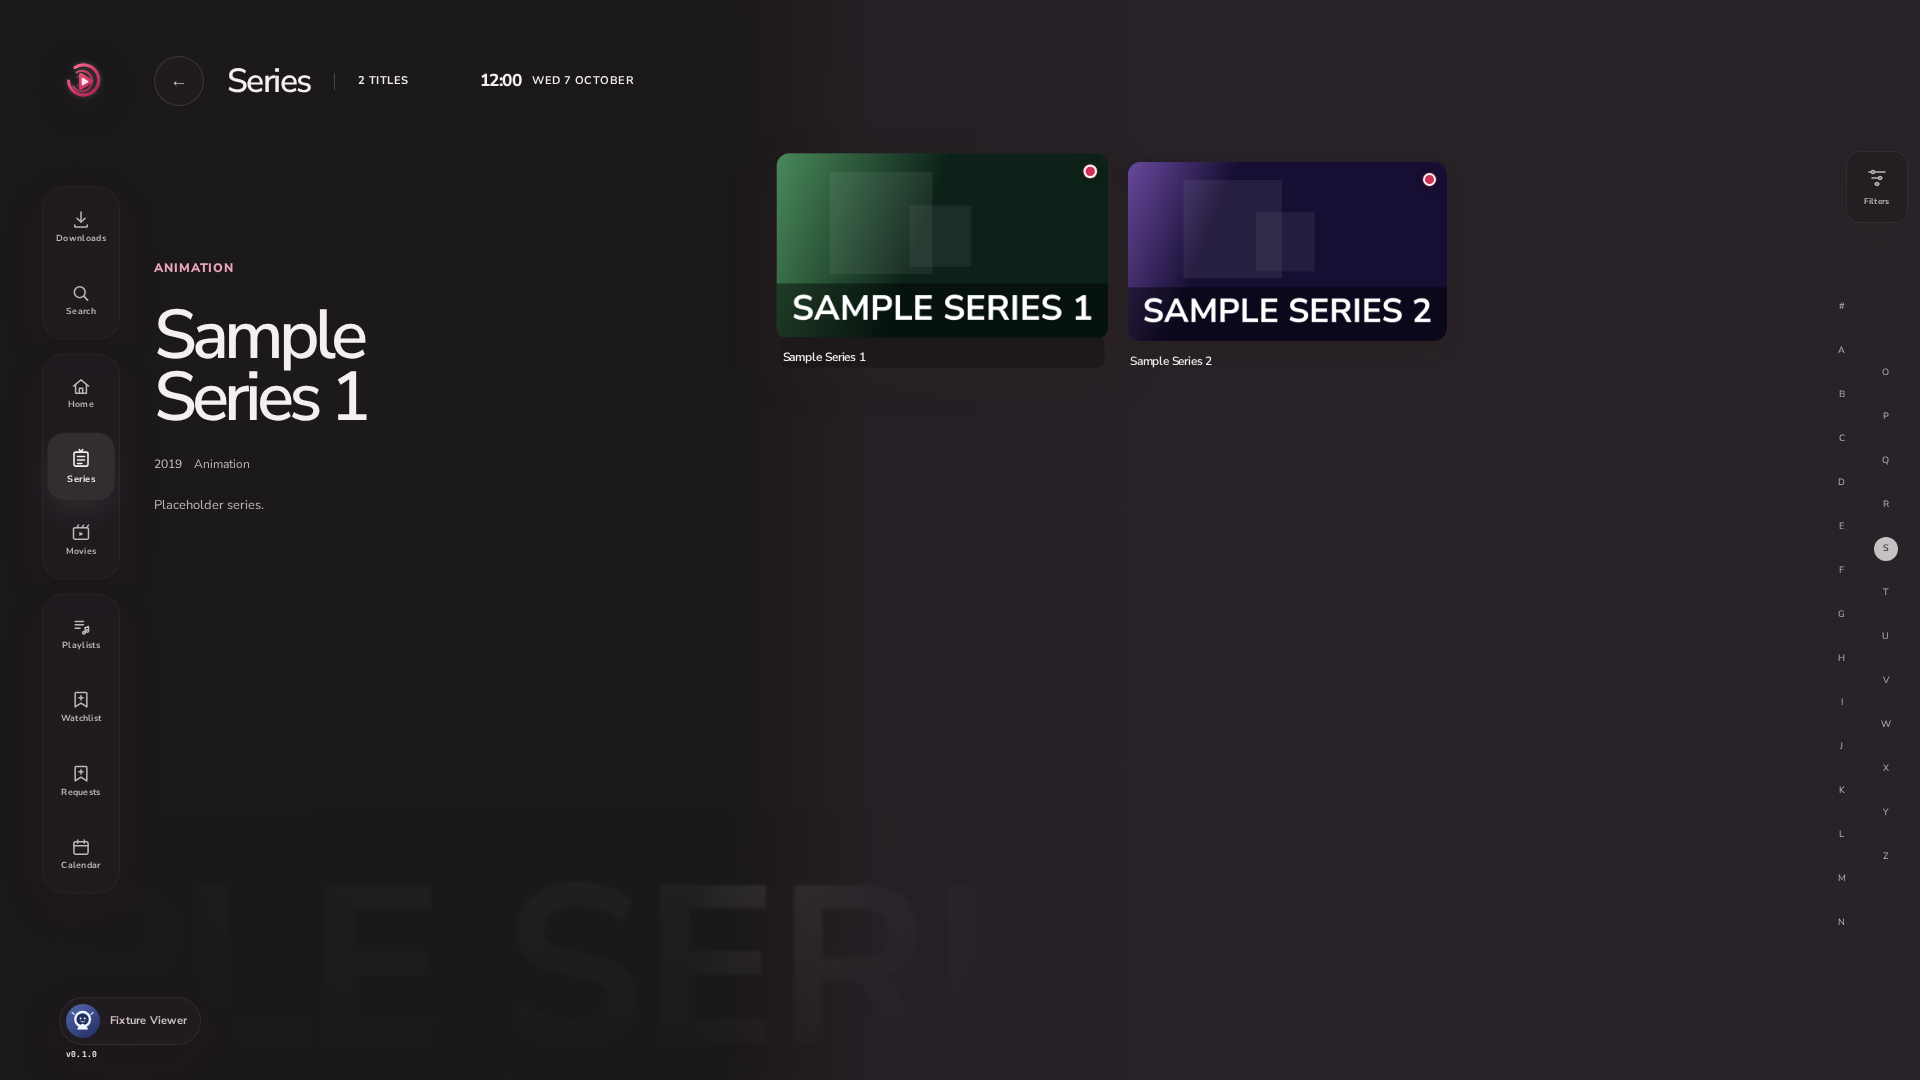
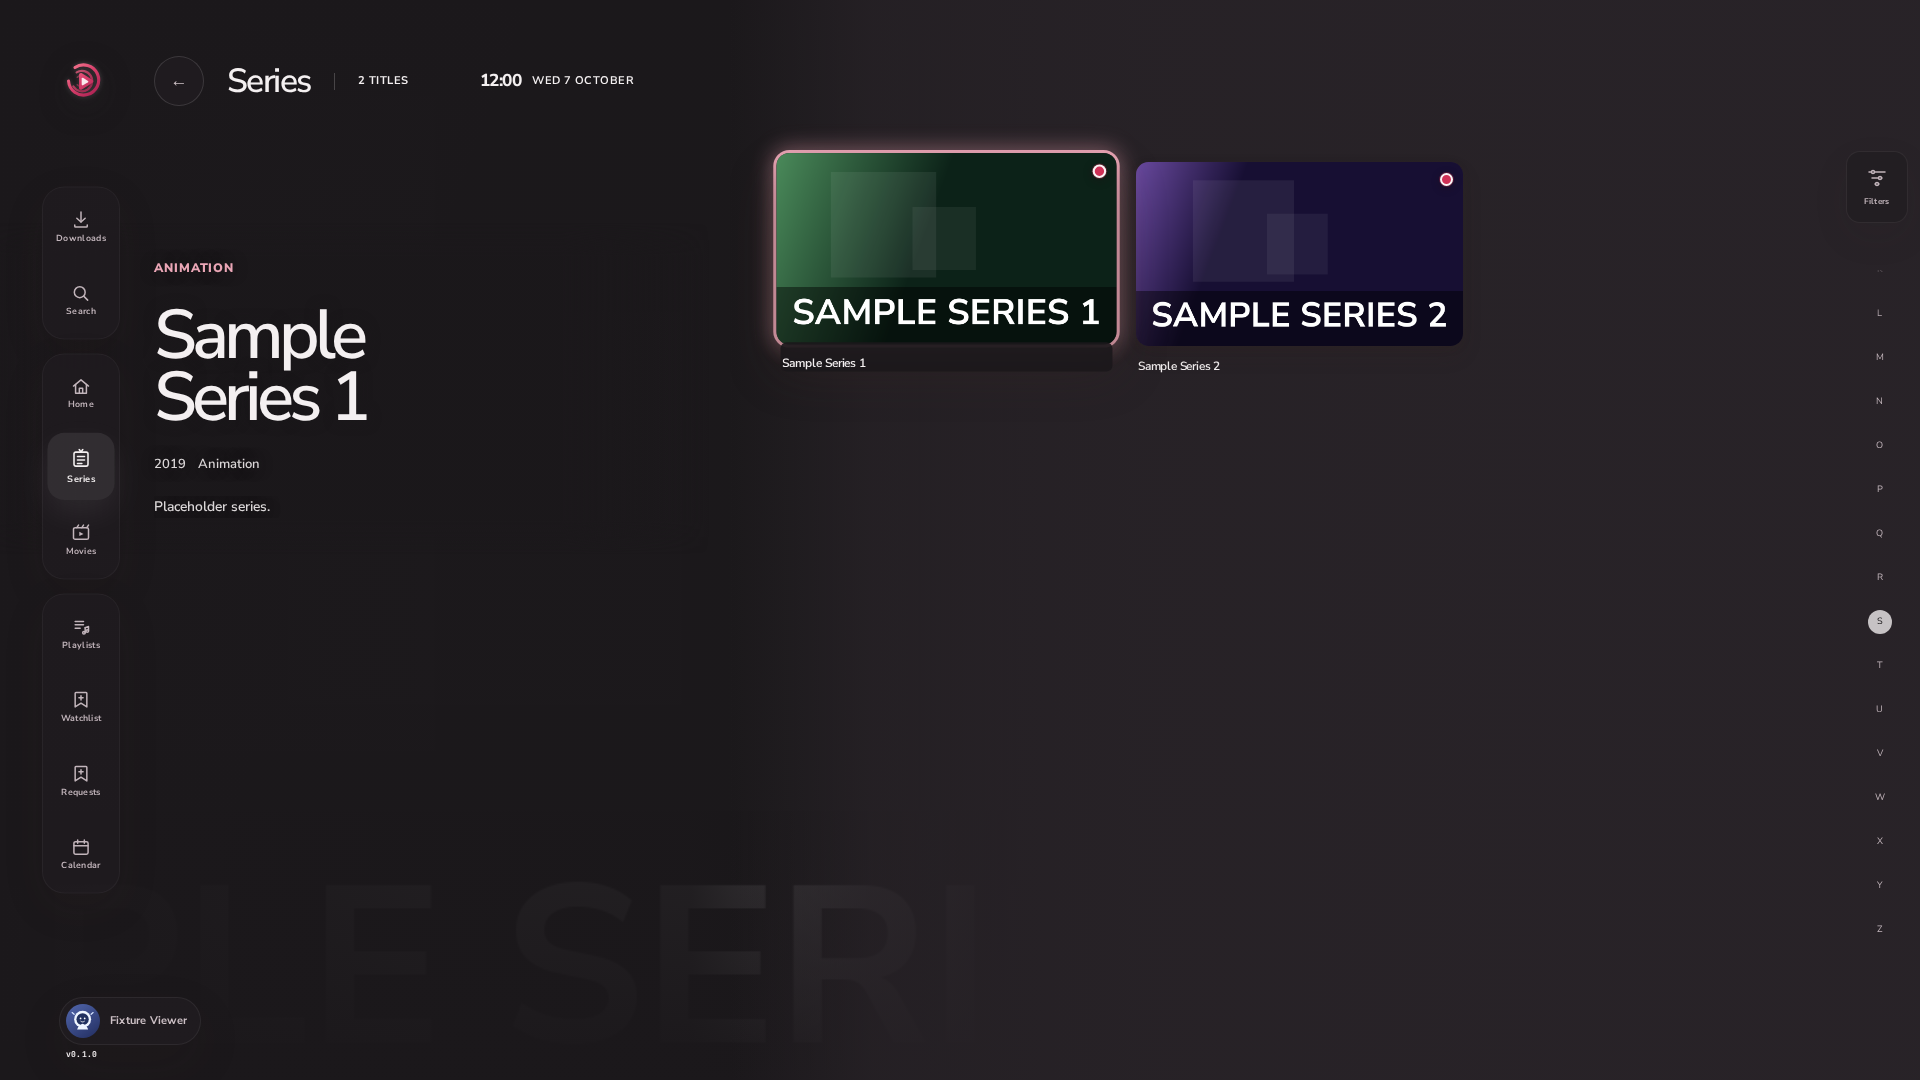
fix(web): library alphabet rail back to one scrolling column with edge fades

diff --git a/clients/tv-web/web/src/pages/Library.tsx b/clients/tv-web/web/src/pages/Library.tsx
@@ -1,5 +1,6 @@
 import { ensureLibraryIndex, registerEnsureLibraryIndex } from "../lib/libraryIndexRegistry";
 import { smoothScrollIntoView, smoothScrollTo } from "../lib/smoothScroll";
+import { useScrollEdges } from "../lib/useScrollEdges";
 import { useRemoteMarkerFollow } from "../lib/remoteMarkerFollow";
 import {
   memo,
@@ -95,6 +96,55 @@ const PREMOUNT_GAP_MS = 24;
 
 const PAGE_SIZE = LIBRARY_PAGE_SIZE;
 const ALPHABET = ["#", ..."ABCDEFGHIJKLMNOPQRSTUVWXYZ"] as const;
+
+/**
+ * The letter column: always ONE column of 44px targets. When they do not fit the stage the column scrolls, with the
+ * shared soft edge fade at the top and bottom (present from first paint), and the focused letter is scrolled into view
+ * smoothly. The highlighted letter follows the grid unless the user is on the rail.
+ */
+function AlphabetRail({
+  alphabet,
+  activeLetter,
+  jumpingLetter,
+  label,
+  symbolsLabel,
+  refreshKey,
+  onJump,
+}: {
+  alphabet: readonly string[];
+  activeLetter: string;
+  jumpingLetter: string | null;
+  label: string;
+  symbolsLabel: string;
+  refreshKey: string;
+  onJump: (letter: string) => void;
+}) {
+  const ref = useRef<HTMLElement>(null);
+  useScrollEdges(ref, "vertical", refreshKey);
+  useEffect(() => {
+    const rail = ref.current;
+    if (!rail || rail.contains(document.activeElement)) return;
+    const active = rail.querySelector<HTMLElement>("button.is-active");
+    if (active) smoothScrollIntoView(active, { block: "center" });
+  }, [activeLetter, refreshKey]);
+  return (
+    <nav ref={ref} className="tv-alphabet" aria-label={label}>
+      {alphabet.map((letter) => (
+        <button
+          key={letter}
+          type="button"
+          className={activeLetter === letter ? "is-active" : ""}
+          onClick={() => onJump(letter)}
+          onFocus={(event) => smoothScrollIntoView(event.currentTarget)}
+          aria-current={activeLetter === letter ? "true" : undefined}
+          aria-label={letter === "#" ? symbolsLabel : letter}
+        >
+          <span>{jumpingLetter === letter ? "·" : letter}</span>
+        </button>
+      ))}
+    </nav>
+  );
+}
 
 function titleLetter(title: string): string {
   const first = title
@@ -1313,20 +1363,15 @@ export function LibraryPage({ kind }: { kind: LibraryKind }) {
       </FiltersDrawer>
 
       {sort === "title" ? (
-        <nav className="tv-alphabet" aria-label={t("pages.library.jumpThrough", { plural: plural.toLowerCase() })}>
-          {alphabet.map((letter) => (
-            <button
-              key={letter}
-              type="button"
-              className={activeLetter === letter ? "is-active" : ""}
-              onClick={() => void jumpToLetter(letter)}
-              aria-current={activeLetter === letter ? "true" : undefined}
-              aria-label={letter === "#" ? t("pages.library.numbersAndSymbols") : letter}
-            >
-              <span>{jumpingLetter === letter ? "·" : letter}</span>
-            </button>
-          ))}
-        </nav>
+        <AlphabetRail
+          alphabet={alphabet}
+          activeLetter={activeLetter}
+          jumpingLetter={jumpingLetter}
+          label={t("pages.library.jumpThrough", { plural: plural.toLowerCase() })}
+          symbolsLabel={t("pages.library.numbersAndSymbols")}
+          refreshKey={order}
+          onJump={(letter) => void jumpToLetter(letter)}
+        />
       ) : null}
       {mediaContext.contextMenu}
     </PageLayout>

diff --git a/clients/tv-web/web/src/styles/global.css b/clients/tv-web/web/src/styles/global.css
@@ -4561,10 +4561,31 @@ body[data-input-mode="remote"] .player-seek-track:focus .player-seek-thumb {
   right: clamp(8px, calc(1 * var(--vw)), 22px);
   height: min(calc(66 * var(--viewport-unit)), 720px);
   display: flex;
-  flex-flow: column wrap;
-  align-content: flex-end;
-  justify-content: center;
+  flex-direction: column;
+  flex-wrap: nowrap;
+  align-items: center;
+  /* One column always. When the 44px letters do not fit, the column scrolls (shared edge fade, useScrollEdges). */
+  overflow-x: hidden;
+  overflow-y: auto;
+  overscroll-behavior: contain;
+  -webkit-overflow-scrolling: touch;
+  scrollbar-width: none;
+  padding: 8px 6px;
+  scroll-padding-block: 22px;
   transform: translateY(-50%);
+}
+
+.tv-alphabet::-webkit-scrollbar {
+  display: none;
+}
+
+/* Safe centring: auto margins centre a short column but never push the first letter out of reach. */
+.tv-alphabet > button:first-child {
+  margin-top: auto;
+}
+
+.tv-alphabet > button:last-child {
+  margin-bottom: auto;
 }
 
 .tv-alphabet button {
@@ -4980,14 +5001,8 @@ body[data-input-mode="remote"] .player-seek-track:focus .player-seek-thumb {
   --directory-controls-edge: clamp(5px, calc(0.65 * var(--vw)), 14px);
   --directory-controls-width: clamp(48px, calc(3.6 * var(--vw)), 62px);
   --directory-controls-gap: clamp(18px, calc(1.5 * var(--vw)), 30px);
-  /* Alphabet rail: 44px targets in two columns on a tall stage, three on a short one (WCAG 2.5.5). */
-  --directory-alphabet-width: 88px;
-}
-
-@media (max-height: 960px) {
-  .tv-directory {
-    --directory-alphabet-width: 132px;
-  }
+  /* Alphabet rail: one column of 44px targets (WCAG 2.5.5) plus 6px padding each side; it scrolls when the letters do not fit. */
+  --directory-alphabet-width: 56px;
 }
 
 .tv-filter-launcher {
@@ -5760,7 +5775,6 @@ body[data-input-mode="remote"] .tv-search-result[data-remote-active] .tv-search-
   top: clamp(214px, calc(25 * var(--viewport-unit)), 286px);
   width: auto;
   height: min(calc(64 * var(--viewport-unit)), 690px);
-  align-items: center;
   transform: none;
 }
 

diff --git a/changelog.d/alphabet-rail-single-column.fixed.md b/changelog.d/alphabet-rail-single-column.fixed.md
@@ -1,0 +1,1 @@
+- Web: the Library A to Z rail is one column again. The 44px letters (WCAG 2.5.5) no longer wrap into two or three columns when they do not fit the stage; the column scrolls instead, with the shared soft edge fade at the top and bottom (present from first paint, no boxes), and the focused or highlighted letter is always scrolled smoothly into view. Owner request 2026-10-10.
